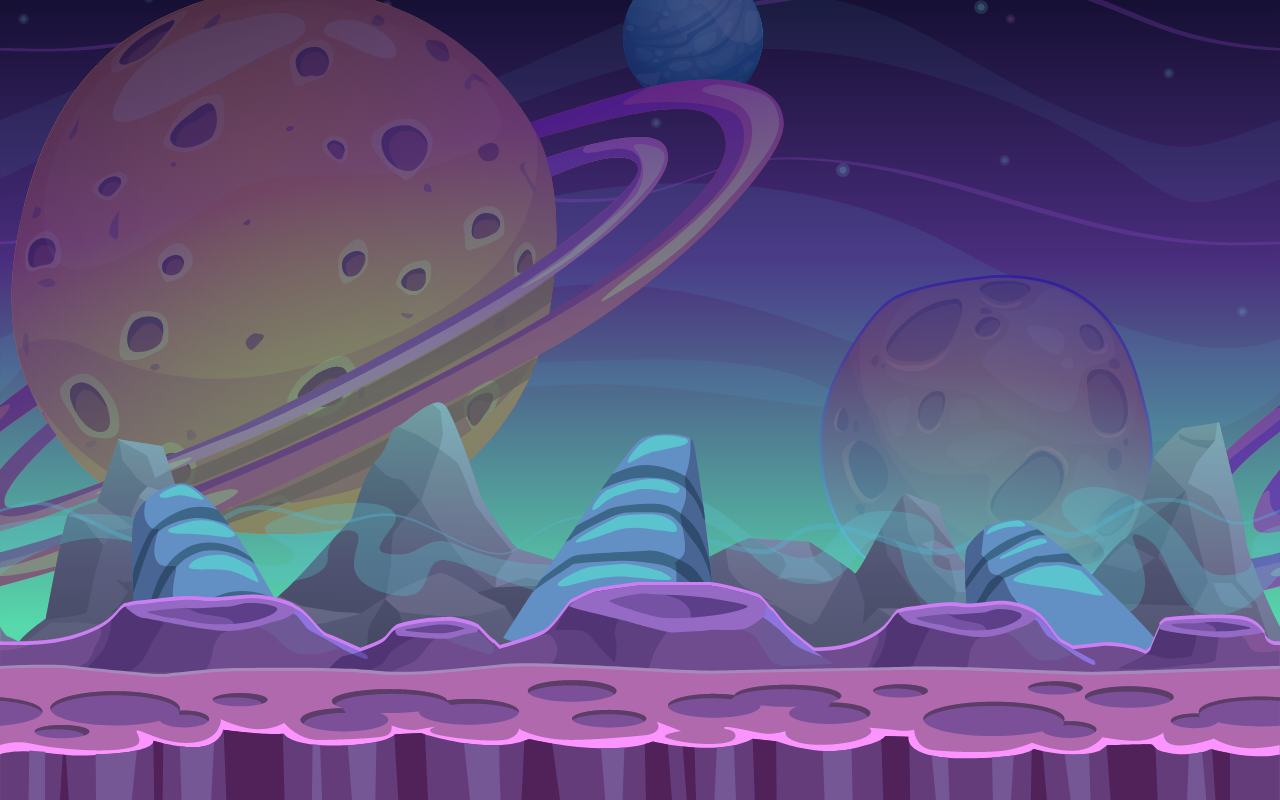
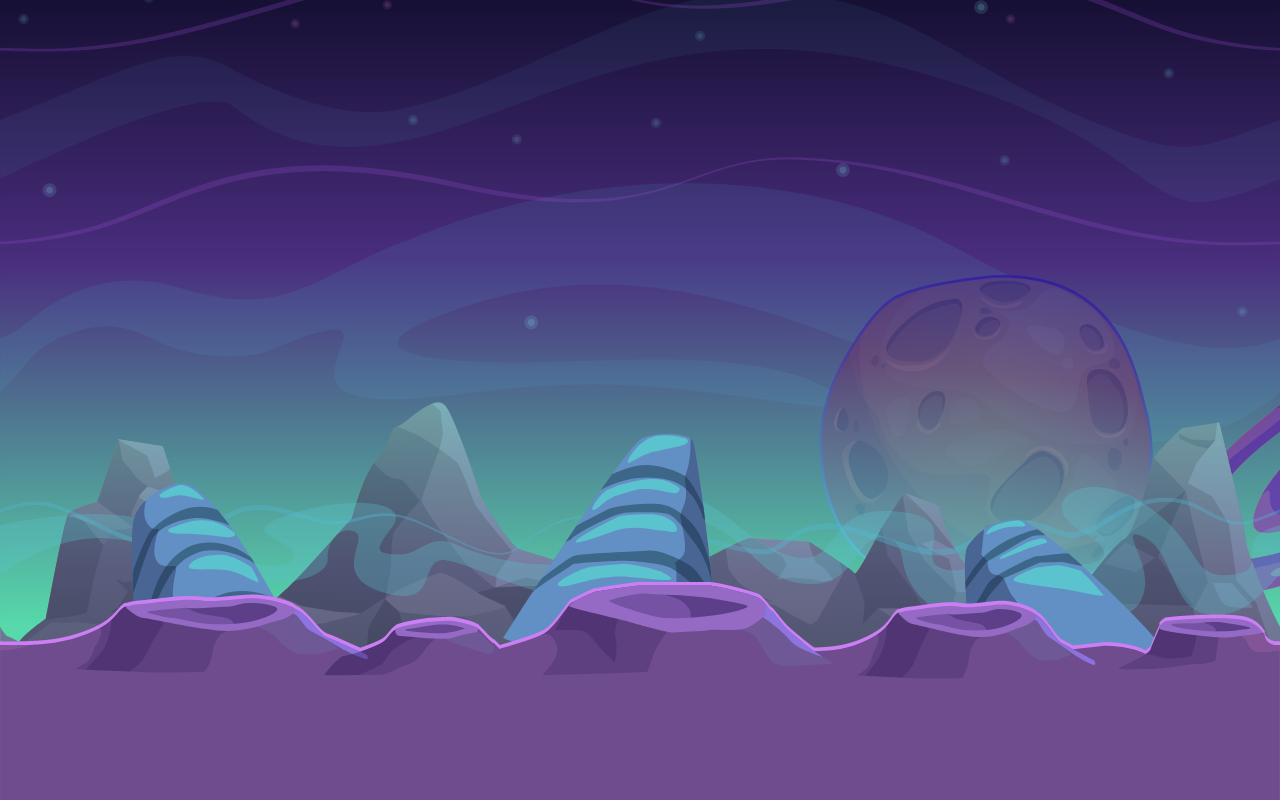
Adding background animation to the game board

diff --git a/lib/presentation/widgets/game_view_background.dart b/lib/presentation/widgets/game_view_background.dart
@@ -1,8 +1,65 @@
 import 'package:flutter/material.dart';
 import 'package:responsive_builder/responsive_builder.dart';
 
-class GameViewBackground extends StatelessWidget {
+class GameViewBackground extends StatefulWidget {
   const GameViewBackground({Key? key}) : super(key: key);
+
+  @override
+  State<GameViewBackground> createState() => _GameViewBackgroundState();
+}
+
+class _GameViewBackgroundState extends State<GameViewBackground>
+    with TickerProviderStateMixin {
+  late AnimationController _controller;
+  late AnimationController _planetController;
+  late Animation<double> _animationGround;
+  late Animation<double> _animationPlanet;
+
+  @override
+  void initState() {
+    super.initState();
+    _controller = AnimationController(
+      vsync: this,
+      duration: const Duration(milliseconds: 4000),
+    );
+
+    _planetController = AnimationController(
+      vsync: this,
+      duration: const Duration(seconds: 30),
+    );
+
+    _animationGround = Tween<double>(
+      begin: 0,
+      end: 25,
+    ).animate(
+      CurvedAnimation(
+        parent: _controller,
+        curve: const Interval(0, 1, curve: Curves.ease),
+      ),
+    );
+
+    _animationPlanet = Tween<double>(
+      begin: 0,
+      end: 1,
+    ).animate(
+      CurvedAnimation(
+        parent: _planetController,
+        curve: const Interval(0, 1),
+      ),
+    );
+
+    _controller
+      ..forward()
+      ..repeat(reverse: true);
+    _planetController.forward();
+  }
+
+  @override
+  void dispose() {
+    _controller.dispose();
+    _planetController.dispose();
+    super.dispose();
+  }
 
   @override
   Widget build(BuildContext context) {
@@ -14,19 +71,37 @@ class GameViewBackground extends StatelessWidget {
   }
 
   Widget _buildMobile() {
-    return Stack(
-      children: const [
-        SizedBox(
-          width: double.infinity,
-          height: double.infinity,
-          child: Image(
-            image: AssetImage(
-                'assets/img/backgrounds/game_view_background_desktop.png'),
-            fit: BoxFit.cover,
-          ),
-        ),
-      ],
-    );
+    return AnimatedBuilder(
+        animation: Listenable.merge([_controller, _planetController]),
+        builder: (context, child) {
+          return Stack(
+            children: [
+              const SizedBox(
+                width: double.infinity,
+                height: double.infinity,
+                child: Image(
+                  image: AssetImage(
+                      'assets/img/backgrounds/game_view_background_desktop.png'),
+                  fit: BoxFit.cover,
+                ),
+              ),
+              Positioned(
+                bottom: 0 - _animationGround.value,
+                height: 800,
+                width: 1280,
+                child: const SizedBox(
+                  width: double.infinity,
+                  height: double.infinity,
+                  child: Image(
+                    image: AssetImage(
+                        'assets/img/backgrounds/game_view_ground.png'),
+                    fit: BoxFit.cover,
+                  ),
+                ),
+              ),
+            ],
+          );
+        });
   }
 
   Widget _buildTablet() {
@@ -46,18 +121,66 @@ class GameViewBackground extends StatelessWidget {
   }
 
   Widget _buildDesktop() {
-    return Stack(
-      children: const [
-        SizedBox(
-          width: double.infinity,
-          height: double.infinity,
-          child: Image(
-            image: AssetImage(
-                'assets/img/backgrounds/game_view_background_desktop.png'),
-            fit: BoxFit.cover,
-          ),
-        ),
-      ],
-    );
+    return AnimatedBuilder(
+        animation: _controller,
+        builder: (context, child) {
+          final size = MediaQuery.of(context).size;
+          return Stack(
+            children: [
+              SizedBox(
+                width: size.width,
+                height: size.height,
+                child: const Image(
+                  image: AssetImage(
+                      'assets/img/backgrounds/game_view_background_desktop.png'),
+                  fit: BoxFit.cover,
+                ),
+              ),
+              Positioned(
+                top: 0 - _animationGround.value,
+                height: size.height,
+                width: size.width,
+                child: SizedBox(
+                  width: size.width,
+                  height: size.height,
+                  child: const Image(
+                    image: AssetImage(
+                        'assets/img/backgrounds/game_view_blue_moon.png'),
+                    fit: BoxFit.cover,
+                  ),
+                ),
+              ),
+              Positioned(
+                top: 0,
+                left: (-1 * size.width) + (size.width * _animationPlanet.value),
+                height: size.height,
+                width: size.width,
+                child: SizedBox(
+                  width: size.width,
+                  height: size.height,
+                  child: const Image(
+                    image: AssetImage(
+                        'assets/img/backgrounds/game_view_planet.png'),
+                    fit: BoxFit.cover,
+                  ),
+                ),
+              ),
+              Positioned(
+                bottom: 0 - _animationGround.value,
+                height: size.height,
+                width: size.width,
+                child: SizedBox(
+                  width: size.width,
+                  height: size.height,
+                  child: const Image(
+                    image: AssetImage(
+                        'assets/img/backgrounds/game_view_ground.png'),
+                    fit: BoxFit.cover,
+                  ),
+                ),
+              ),
+            ],
+          );
+        });
   }
 }

diff --git a/lib/presentation/views/game/game_view.dart b/lib/presentation/views/game/game_view.dart
@@ -97,27 +97,29 @@ class GameView extends StatelessWidget {
                 children: [
                   const GameViewBackground(),
                   SafeArea(
-                    child: Padding(
-                      padding: const EdgeInsets.symmetric(horizontal: 20),
-                      child: Column(
-                        children: [
-                          SpaceBar(
-                            onPressed: () =>
-                                context.read<AudioCubit>().playMenuMusic(),
-                          ),
-                          Header(moves: state.moves, width: gameWidth),
-                          const SizedBox(height: 10),
-                          SizedBox(
-                            height: gameWidth,
-                            child: AspectRatio(
-                              aspectRatio: 1,
-                              child:
-                                  PuzzleBoard(state: state, width: gameWidth),
+                    child: SingleChildScrollView(
+                      child: Padding(
+                        padding: const EdgeInsets.symmetric(horizontal: 20),
+                        child: Column(
+                          children: [
+                            SpaceBar(
+                              onPressed: () =>
+                                  context.read<AudioCubit>().playMenuMusic(),
                             ),
-                          ),
-                          const SizedBox(height: 10),
-                          Menu(state: state, width: gameWidth),
-                        ],
+                            Header(moves: state.moves, width: gameWidth),
+                            const SizedBox(height: 10),
+                            SizedBox(
+                              height: gameWidth,
+                              child: AspectRatio(
+                                aspectRatio: 1,
+                                child:
+                                    PuzzleBoard(state: state, width: gameWidth),
+                              ),
+                            ),
+                            const SizedBox(height: 10),
+                            Menu(state: state, width: gameWidth),
+                          ],
+                        ),
                       ),
                     ),
                   ),

diff --git a/lib/presentation/widgets/home_view_background.dart b/lib/presentation/widgets/home_view_background.dart
@@ -30,6 +30,7 @@ class _HomeViewBackgroundState extends State<HomeViewBackground>
     'assets/img/backgrounds/home_view_background.png',
     fit: BoxFit.cover,
   );
+
   @override
   void initState() {
     super.initState();
